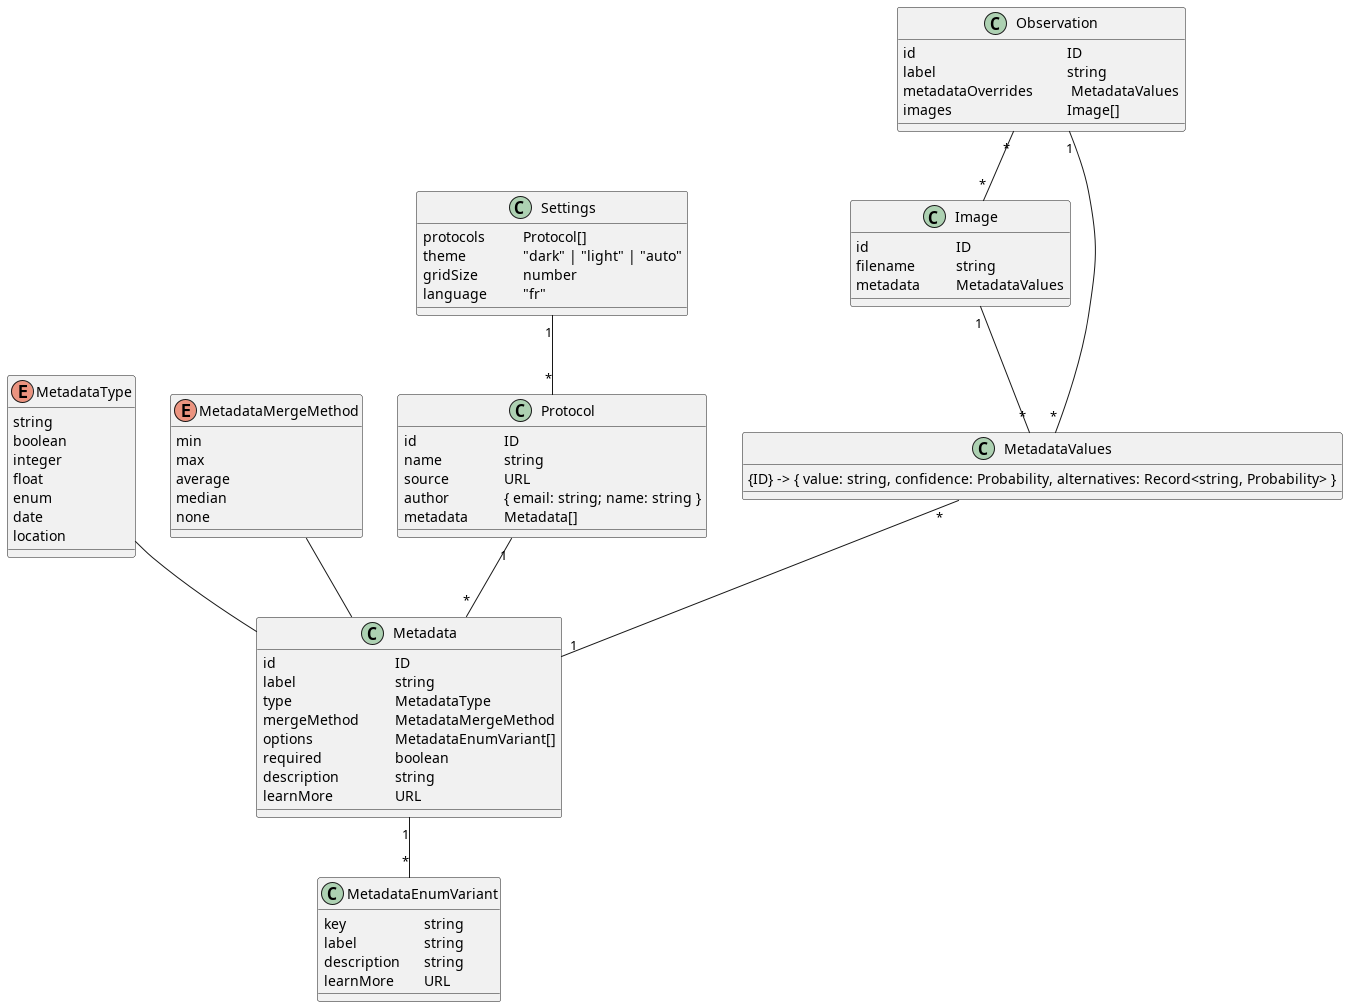
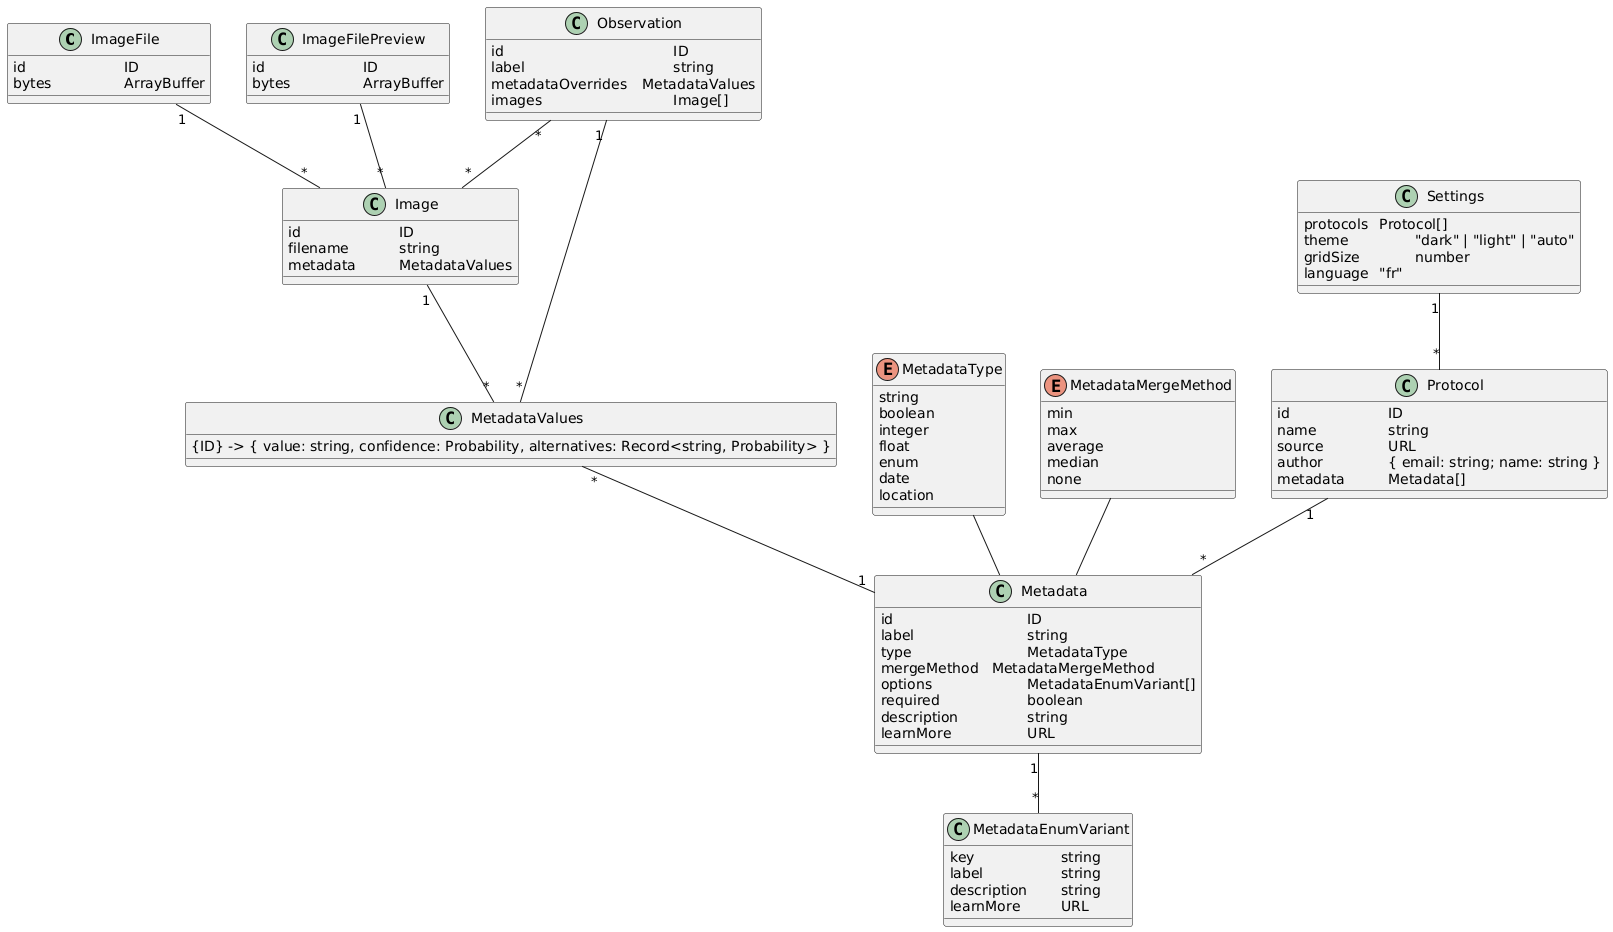
📝 Update database diagram

diff --git a/README.md b/README.md
@@ -47,7 +47,4 @@ npm run build
 
 ### Organisation de données
 
-> [!WARNING]
-> Sûrement légèrement out of date
-
 ![](./database.png)
